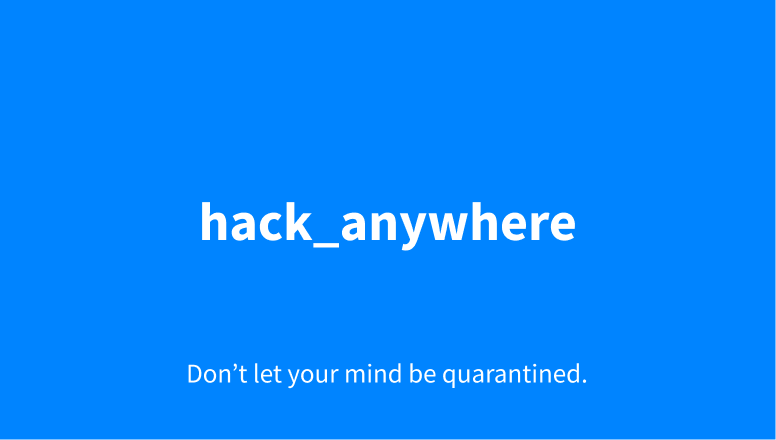
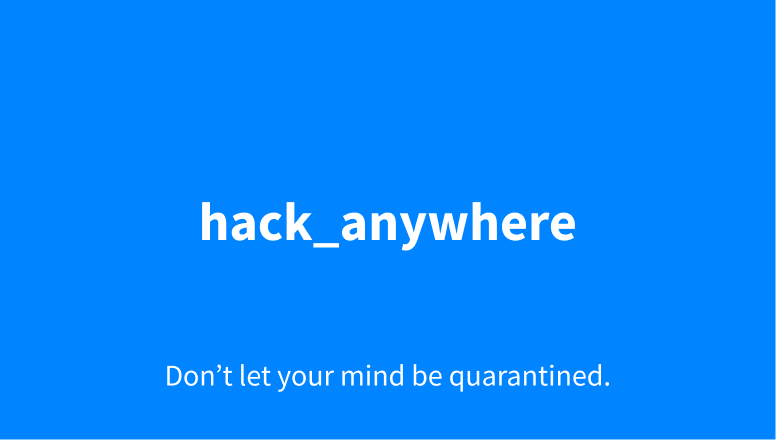
Updated social graph image to make subtitle bigger

Changed region(s): [[0.2165, 0.8273, 0.7732, 0.8864]]

diff --git a/client/build/index.html b/client/build/index.html
@@ -1,1 +1,1 @@
-<!doctype html><html lang="en"><head><meta charset="utf-8"/><link rel="icon" href="./favicon.ico"/><meta name="viewport" content="width=device-width,initial-scale=1"/><title>Hack Anywhere: A fully remote hackathon to fight COVID-19</title><meta name="title" content="Hack Anywhere: A fully remote hackathon to fight COVID-19"><meta name="description" content="Join creatives around the world while quarantined."><meta property="og:type" content="website"><meta property="og:url" content="https://hackanywhere.com/"><meta property="og:title" content="Hack Anywhere: A fully remote hackathon to fight COVID-19"><meta property="og:description" content="Join creatives around the world while quarantined."><meta property="og:image" content="https://i.ibb.co/wKvVLXC/quarantined.png"><meta property="twitter:card" content="./quarantined.png"><meta property="twitter:url" content="https://hackanywhere.com/"><meta property="twitter:title" content="Hack Anywhere: A fully remote hackathon to fight COVID-19"><meta property="twitter:description" content="Join creatives around the world while quarantined."><meta property="twitter:image" content="https://i.ibb.co/wKvVLXC/quarantined.png"><title>hack_anywhere</title><link href="/static/css/main.d642f6a9.chunk.css" rel="stylesheet"></head><body><noscript>You need to enable JavaScript to run this app.</noscript><div id="root"></div><script>!function(e){function t(t){for(var n,l,i=t[0],f=t[1],a=t[2],p=0,s=[];p<i.length;p++)l=i[p],Object.prototype.hasOwnProperty.call(o,l)&&o[l]&&s.push(o[l][0]),o[l]=0;for(n in f)Object.prototype.hasOwnProperty.call(f,n)&&(e[n]=f[n]);for(c&&c(t);s.length;)s.shift()();return u.push.apply(u,a||[]),r()}function r(){for(var e,t=0;t<u.length;t++){for(var r=u[t],n=!0,i=1;i<r.length;i++){var f=r[i];0!==o[f]&&(n=!1)}n&&(u.splice(t--,1),e=l(l.s=r[0]))}return e}var n={},o={1:0},u=[];function l(t){if(n[t])return n[t].exports;var r=n[t]={i:t,l:!1,exports:{}};return e[t].call(r.exports,r,r.exports,l),r.l=!0,r.exports}l.m=e,l.c=n,l.d=function(e,t,r){l.o(e,t)||Object.defineProperty(e,t,{enumerable:!0,get:r})},l.r=function(e){"undefined"!=typeof Symbol&&Symbol.toStringTag&&Object.defineProperty(e,Symbol.toStringTag,{value:"Module"}),Object.defineProperty(e,"__esModule",{value:!0})},l.t=function(e,t){if(1&t&&(e=l(e)),8&t)return e;if(4&t&&"object"==typeof e&&e&&e.__esModule)return e;var r=Object.create(null);if(l.r(r),Object.defineProperty(r,"default",{enumerable:!0,value:e}),2&t&&"string"!=typeof e)for(var n in e)l.d(r,n,function(t){return e[t]}.bind(null,n));return r},l.n=function(e){var t=e&&e.__esModule?function(){return e.default}:function(){return e};return l.d(t,"a",t),t},l.o=function(e,t){return Object.prototype.hasOwnProperty.call(e,t)},l.p="/";var i=this.webpackJsonpclient=this.webpackJsonpclient||[],f=i.push.bind(i);i.push=t,i=i.slice();for(var a=0;a<i.length;a++)t(i[a]);var c=f;r()}([])</script><script src="/static/js/2.5c655fbd.chunk.js"></script><script src="/static/js/main.ffba6936.chunk.js"></script></body></html>
+<!doctype html><html lang="en"><head><meta charset="utf-8"/><link rel="icon" href="./favicon.ico"/><meta name="viewport" content="width=device-width,initial-scale=1"/><title>Hack Anywhere: A fully remote hackathon to fight COVID-19</title><meta name="title" content="Hack Anywhere: A fully remote hackathon to fight COVID-19"><meta name="description" content="Join creatives around the world while quarantined."><meta property="og:type" content="website"><meta property="og:url" content="https://hackanywhere.com/"><meta property="og:title" content="Hack Anywhere: A fully remote hackathon to fight COVID-19"><meta property="og:description" content="Join creatives around the world while quarantined."><meta property="og:image" content="https://i.ibb.co/qnBn85V/quarantined.png"><meta property="twitter:card" content="./quarantined.png"><meta property="twitter:url" content="https://hackanywhere.com/"><meta property="twitter:title" content="Hack Anywhere: A fully remote hackathon to fight COVID-19"><meta property="twitter:description" content="Join creatives around the world while quarantined."><meta property="twitter:image" content="https://i.ibb.co/qnBn85V/quarantined.png"><title>hack_anywhere</title><link href="/static/css/main.d642f6a9.chunk.css" rel="stylesheet"></head><body><noscript>You need to enable JavaScript to run this app.</noscript><div id="root"></div><script>!function(e){function t(t){for(var n,l,i=t[0],f=t[1],a=t[2],p=0,s=[];p<i.length;p++)l=i[p],Object.prototype.hasOwnProperty.call(o,l)&&o[l]&&s.push(o[l][0]),o[l]=0;for(n in f)Object.prototype.hasOwnProperty.call(f,n)&&(e[n]=f[n]);for(c&&c(t);s.length;)s.shift()();return u.push.apply(u,a||[]),r()}function r(){for(var e,t=0;t<u.length;t++){for(var r=u[t],n=!0,i=1;i<r.length;i++){var f=r[i];0!==o[f]&&(n=!1)}n&&(u.splice(t--,1),e=l(l.s=r[0]))}return e}var n={},o={1:0},u=[];function l(t){if(n[t])return n[t].exports;var r=n[t]={i:t,l:!1,exports:{}};return e[t].call(r.exports,r,r.exports,l),r.l=!0,r.exports}l.m=e,l.c=n,l.d=function(e,t,r){l.o(e,t)||Object.defineProperty(e,t,{enumerable:!0,get:r})},l.r=function(e){"undefined"!=typeof Symbol&&Symbol.toStringTag&&Object.defineProperty(e,Symbol.toStringTag,{value:"Module"}),Object.defineProperty(e,"__esModule",{value:!0})},l.t=function(e,t){if(1&t&&(e=l(e)),8&t)return e;if(4&t&&"object"==typeof e&&e&&e.__esModule)return e;var r=Object.create(null);if(l.r(r),Object.defineProperty(r,"default",{enumerable:!0,value:e}),2&t&&"string"!=typeof e)for(var n in e)l.d(r,n,function(t){return e[t]}.bind(null,n));return r},l.n=function(e){var t=e&&e.__esModule?function(){return e.default}:function(){return e};return l.d(t,"a",t),t},l.o=function(e,t){return Object.prototype.hasOwnProperty.call(e,t)},l.p="/";var i=this.webpackJsonpclient=this.webpackJsonpclient||[],f=i.push.bind(i);i.push=t,i=i.slice();for(var a=0;a<i.length;a++)t(i[a]);var c=f;r()}([])</script><script src="/static/js/2.5c655fbd.chunk.js"></script><script src="/static/js/main.ffba6936.chunk.js"></script></body></html>

diff --git a/client/build/precache-manifest.9b8dc82fc636c72515205a7d93bc73fa.js b/client/build/precache-manifest.9b8dc82fc636c72515205a7d93bc73fa.js
@@ -1,0 +1,42 @@
+self.__precacheManifest = (self.__precacheManifest || []).concat([
+  {
+    "revision": "e04f83e5010707d444f355a251e004d2",
+    "url": "/index.html"
+  },
+  {
+    "revision": "bd13b4b7527fe59365c5",
+    "url": "/static/css/main.d642f6a9.chunk.css"
+  },
+  {
+    "revision": "e088e7cb01e4a32f908e",
+    "url": "/static/js/2.5c655fbd.chunk.js"
+  },
+  {
+    "revision": "5356fa2f66e46e6c05e4cbe319ac7f1d",
+    "url": "/static/js/2.5c655fbd.chunk.js.LICENSE.txt"
+  },
+  {
+    "revision": "bd13b4b7527fe59365c5",
+    "url": "/static/js/main.ffba6936.chunk.js"
+  },
+  {
+    "revision": "6f0234b4b87d585d06e8",
+    "url": "/static/js/runtime-main.cfae3202.js"
+  },
+  {
+    "revision": "1a2a157bfd94b250884c09f1bd57a0bb",
+    "url": "/static/media/SourceSansPro-Bold.1a2a157b.otf"
+  },
+  {
+    "revision": "5e1d162e634a102d7da8db597825a764",
+    "url": "/static/media/SourceSansPro-Regular.5e1d162e.otf"
+  },
+  {
+    "revision": "4785ffc8f434dd14867f8326ec680ede",
+    "url": "/static/media/down-arrow.4785ffc8.svg"
+  },
+  {
+    "revision": "6385bc87d79439d6076d937c0cea8e1f",
+    "url": "/static/media/keyboard.6385bc87.svg"
+  }
+]);

diff --git a/client/public/index.html b/client/public/index.html
@@ -15,14 +15,14 @@
     <meta property="og:url" content="https://hackanywhere.com/">
     <meta property="og:title" content="Hack Anywhere: A fully remote hackathon to fight COVID-19">
     <meta property="og:description" content="Join creatives around the world while quarantined.">
-    <meta property="og:image" content="https://i.ibb.co/wKvVLXC/quarantined.png">
+    <meta property="og:image" content="https://i.ibb.co/qnBn85V/quarantined.png">
 
     <!-- Twitter -->
     <meta property="twitter:card" content="./quarantined.png">
     <meta property="twitter:url" content="https://hackanywhere.com/">
     <meta property="twitter:title" content="Hack Anywhere: A fully remote hackathon to fight COVID-19">
     <meta property="twitter:description" content="Join creatives around the world while quarantined.">
-    <meta property="twitter:image" content="https://i.ibb.co/wKvVLXC/quarantined.png">
+    <meta property="twitter:image" content="https://i.ibb.co/qnBn85V/quarantined.png">
     <!-- <link rel="apple-touch-icon" href="/%PUBLIC_URL%/logo192.png" /> -->
     <!--
       manifest.json provides metadata used when your web app is installed on a

diff --git a/client/build/service-worker.js b/client/build/service-worker.js
@@ -14,7 +14,7 @@
 importScripts("https://storage.googleapis.com/workbox-cdn/releases/4.3.1/workbox-sw.js");
 
 importScripts(
-  "/precache-manifest.216cd2831f3ca874b95b1734523977c6.js"
+  "/precache-manifest.9b8dc82fc636c72515205a7d93bc73fa.js"
 );
 
 self.addEventListener('message', (event) => {
